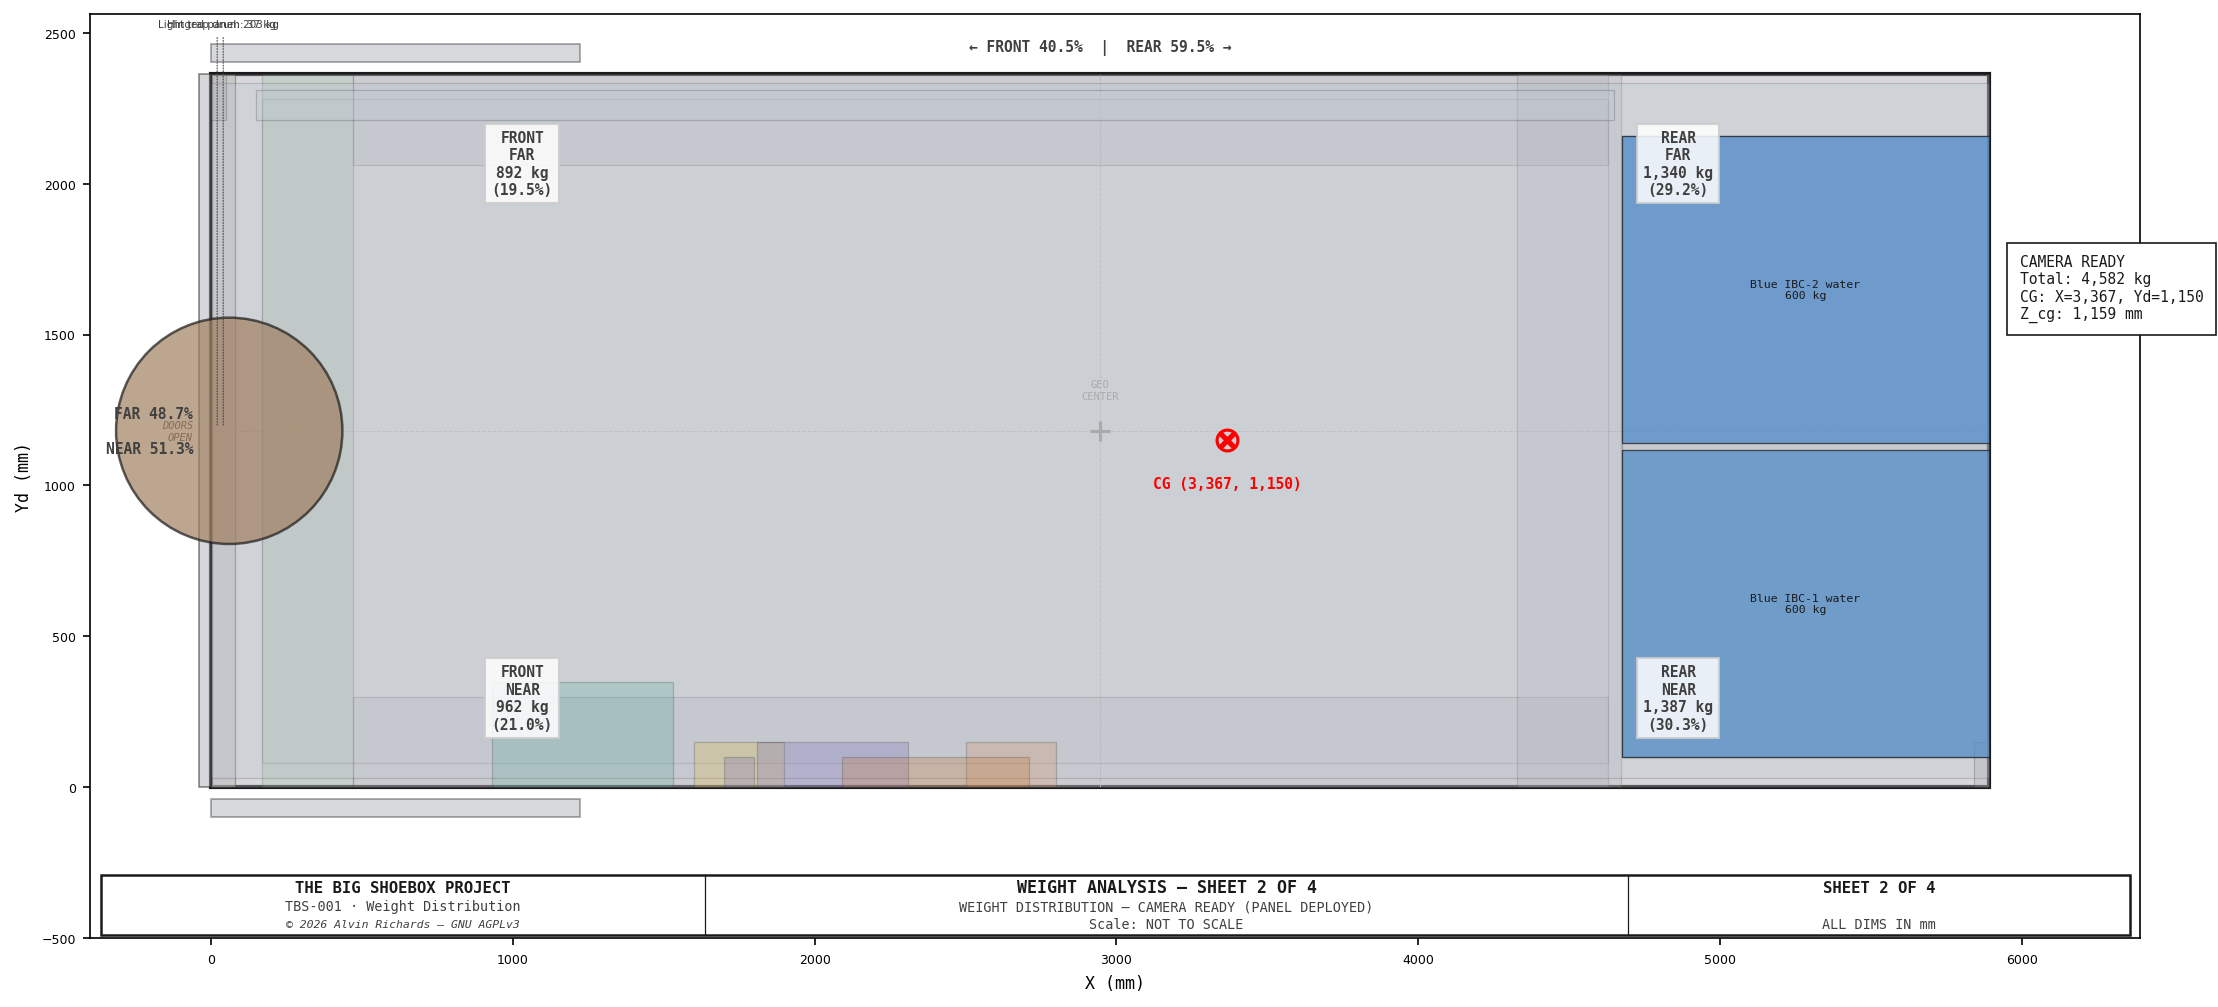
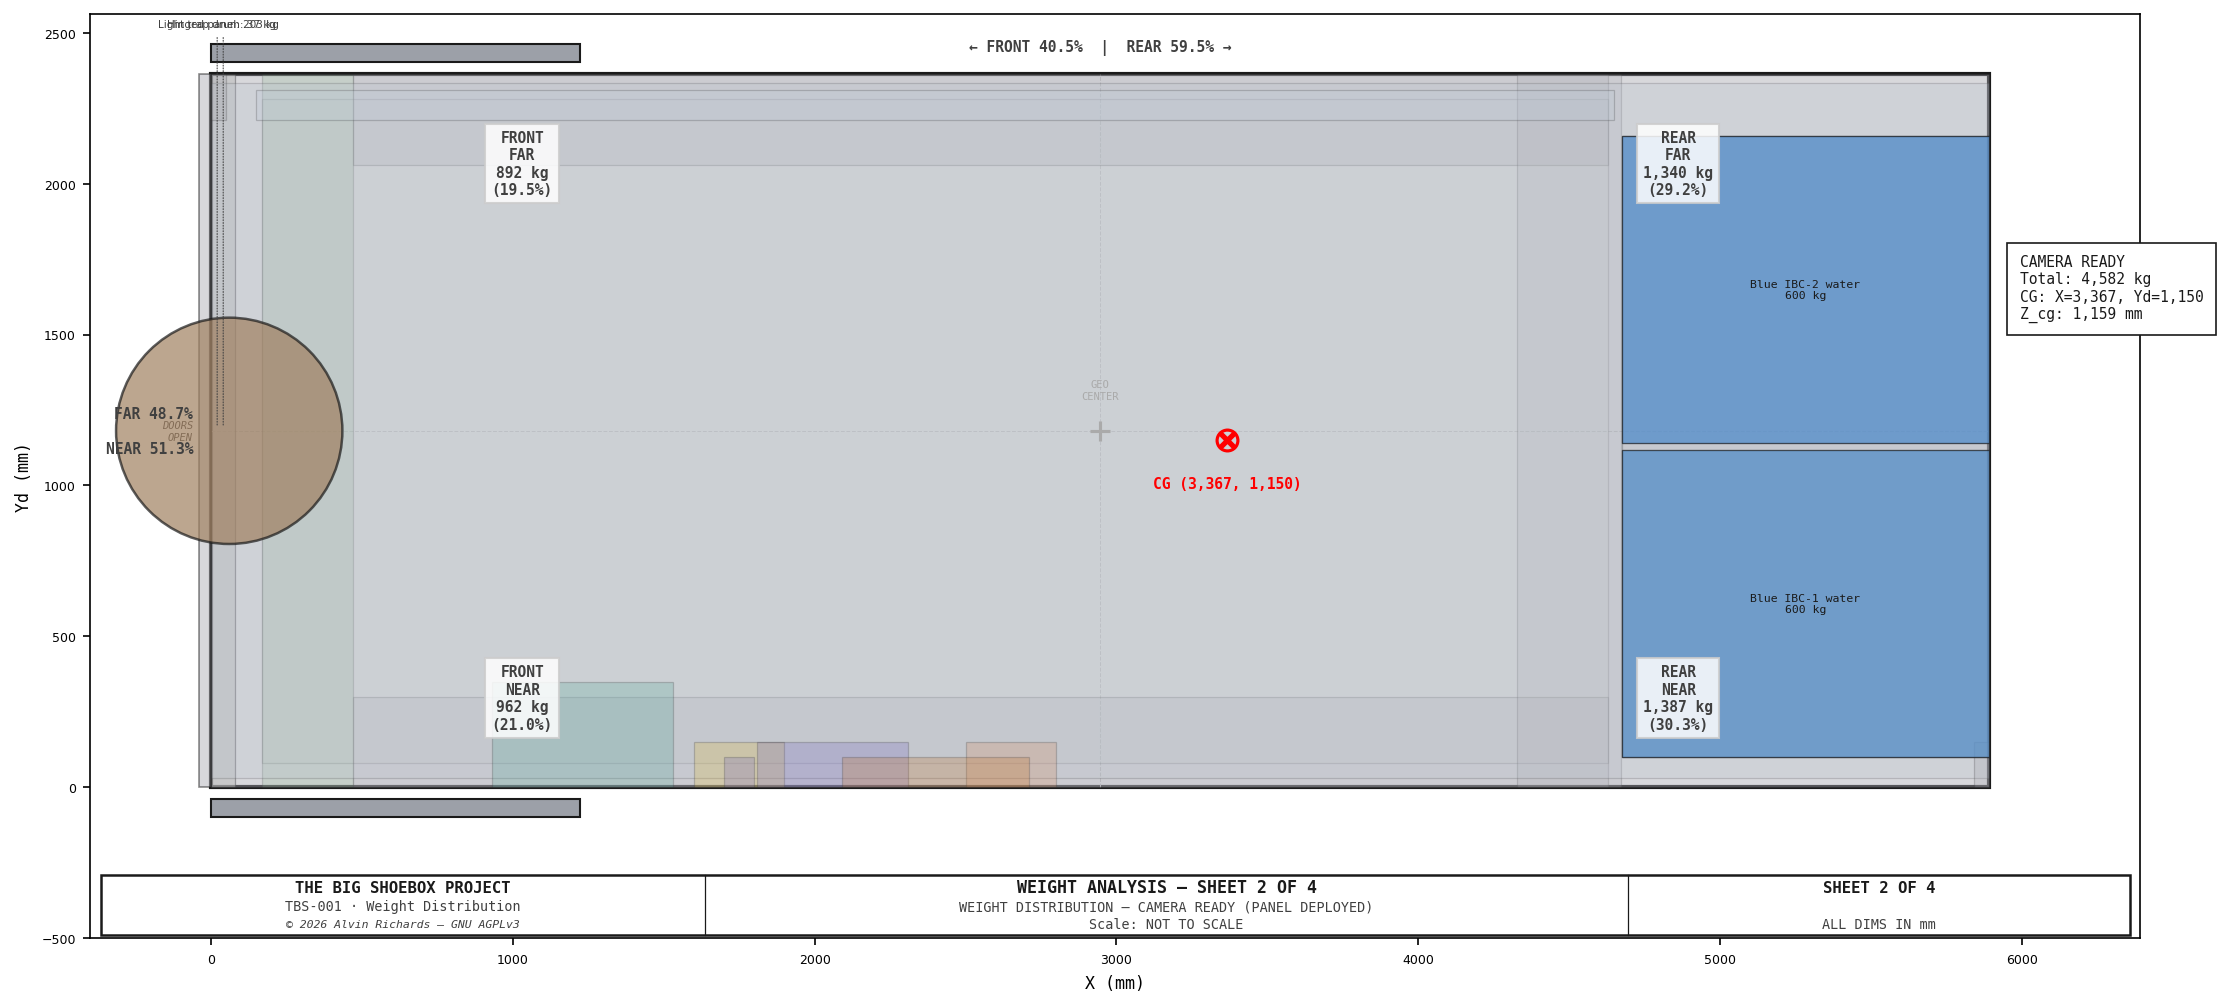
Fix sheet 2 door color and add doors/panel/drum to sheet 4
Sheet 2: match open-door alpha and line weight to closed-door
style used on other sheets. Sheet 4: add cargo doors (state-
dependent open/closed), hinged panel, and drum circle to all
three summary overview diagrams for consistency with sheets 1-3.

Changed region(s): [[0.0933, 0.7696, 0.28, 0.8312], [0.0933, 0.0308, 0.28, 0.0616]]

diff --git a/generate_weight_analysis.py b/generate_weight_analysis.py
@@ -574,11 +574,11 @@ def _draw_cargo_doors(ax, closed=True):
         # Near-side door (Yd < 0)
         ax.add_patch(Rectangle((0, -WALL_T - DOOR_T),
                      C_WID / 2 + WALL_T, DOOR_T,
-                     fc=C_DOOR, ec=C_OUT, lw=0.8, alpha=0.4, zorder=2))
+                     fc=C_DOOR, ec=C_OUT, lw=1.0, zorder=4))
         # Far-side door (Yd > C_WID)
         ax.add_patch(Rectangle((0, C_WID + WALL_T),
                      C_WID / 2 + WALL_T, DOOR_T,
-                     fc=C_DOOR, ec=C_OUT, lw=0.8, alpha=0.4, zorder=2))
+                     fc=C_DOOR, ec=C_OUT, lw=1.0, zorder=4))
         ax.text(-60, C_WID / 2, "DOORS\nOPEN", ha="right", va="center",
                 fontsize=5, color=C_DIM, style="italic", zorder=3, **_FONT)
     # Wall thickness at cargo door end
@@ -933,24 +933,51 @@ def sheet4(components):
         splits = compute_splits(quads, total)
         cg_points.append((x_cg, yd_cg, z_cg, total))
 
-        # Draw container outline
-        ax.add_patch(Rectangle((0, 0), C_LEN, C_WID,
-                     fc="#F8F8F8", ec=C_OUT, lw=1.5, zorder=1))
+        # Draw container outline and cargo doors
+        _draw_container_outline(ax)
+        _draw_cargo_doors(ax, closed=(state != "ready"))
+
         # Quadrant lines
         ax.plot([C_LEN / 2, C_LEN / 2], [0, C_WID], color="#DDDDDD",
                 lw=0.5, ls="--", zorder=2)
         ax.plot([0, C_LEN], [C_WID / 2, C_WID / 2], color="#DDDDDD",
                 lw=0.5, ls="--", zorder=2)
 
-        # Draw non-liquid components faded
+        # Draw non-liquid, non-container components faded
+        # Separate panel and drum for special rendering
+        highlight_names = {"Hinged panel", "Light trap drum"}
         non_cont = [c for c in active
                     if c.category not in ("container", "liquid")]
         for c in non_cont:
+            if c.name in highlight_names:
+                continue
             w = c.x_max - c.x_min
             h = c.yd_max - c.yd_min
             if w > 0 and h > 0:
                 ax.add_patch(Rectangle((c.x_min, c.yd_min), w, h,
                              fc=c.color, ec="none", alpha=0.2, zorder=3))
+
+        # Draw panel
+        for c in non_cont:
+            if c.name == "Hinged panel":
+                w = c.x_max - c.x_min
+                h = c.yd_max - c.yd_min
+                if w > 0 and h > 0:
+                    ax.add_patch(Rectangle((c.x_min, c.yd_min), w, h,
+                                 fc=c.color, ec=C_OUT, alpha=0.4, lw=0.6,
+                                 zorder=4))
+
+        # Draw drum as circle
+        for c in non_cont:
+            if c.name == "Light trap drum":
+                if state in ("dry", "exhausted"):
+                    cx = PANEL_SLIDE + PANEL_CENTER_T / 2
+                else:
+                    cx = PANEL_CENTER_T / 2
+                cy = C_WID / 2
+                ax.add_patch(Circle((cx, cy), DRUM_R,
+                             fc="#A08060", ec=C_OUT, lw=0.8, alpha=0.5,
+                             zorder=5))
 
         # Draw liquids
         liquids = [c for c in active if c.category == "liquid"]
@@ -971,8 +998,8 @@ def sheet4(components):
 
         ax.set_title(label, fontsize=9, fontweight="bold", color=C_OUT,
                      **_FONT)
-        ax.set_xlim(-100, C_LEN + 100)
-        ax.set_ylim(-100, C_WID + 100)
+        ax.set_xlim(-250, C_LEN + 100)
+        ax.set_ylim(-250, C_WID + 250)
         ax.set_aspect("equal")
         ax.tick_params(labelsize=5)
 
